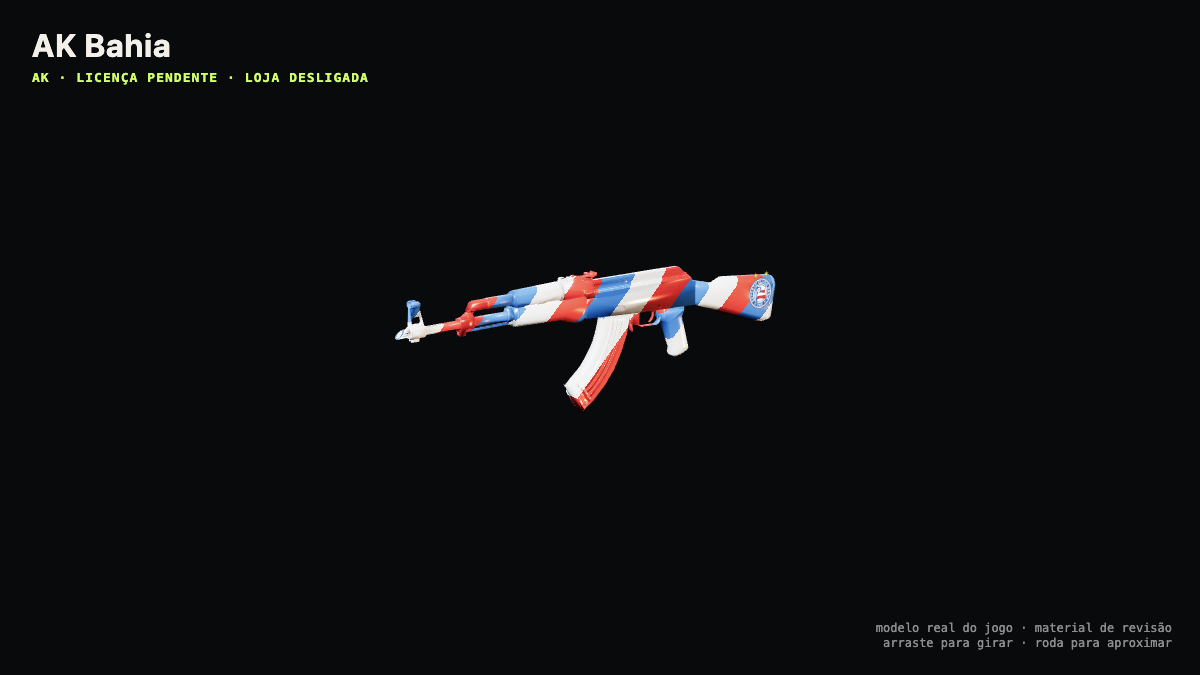
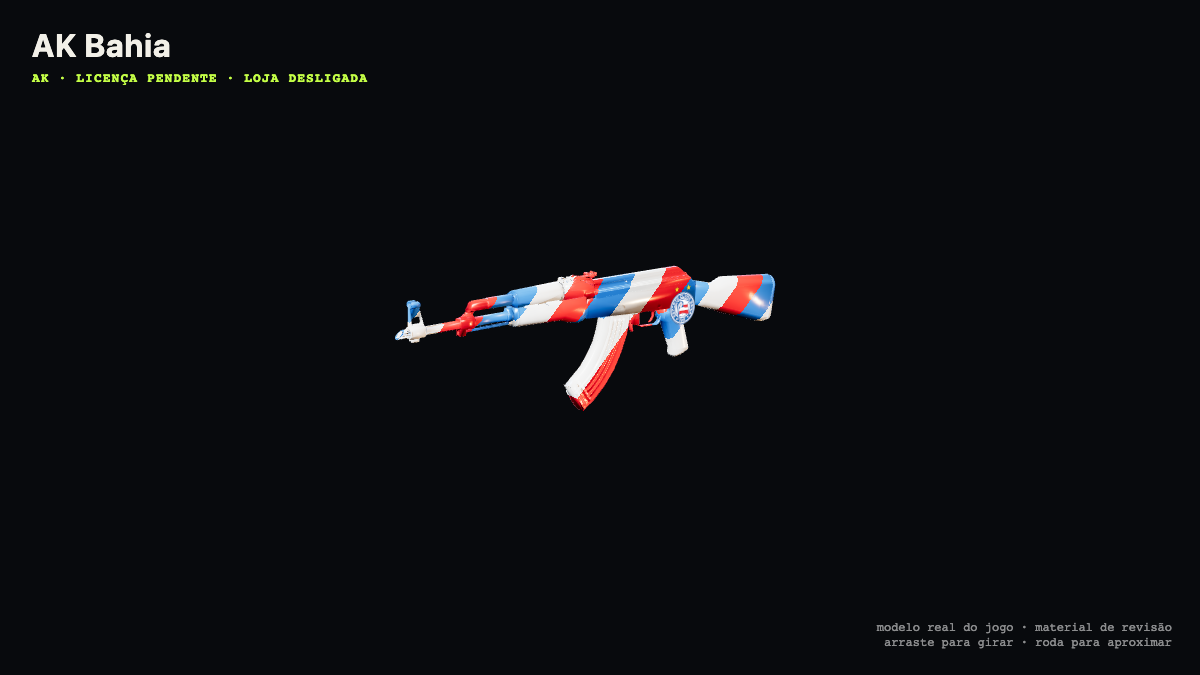
fix: keep club crests visible ingame
Use the complete Mint viewmodel during debug skin review and keep official marks on the receiver.

Commit-grande: atualiza o caminho de viewmodel e recaptura as evidências das dez variantes.

Agent: GLM

diff --git a/public/js/data/weapon-skin-definitions.js b/public/js/data/weapon-skin-definitions.js
@@ -34,7 +34,7 @@ export const WEAPON_SKINS = Object.freeze({
     rightsStatus: 'permission-needed',
     requiresLicenseForOfficialMarks: true,
     officialMarksIncluded: true,
-    markPlacement: 'stock',
+    markPlacement: 'receiver',
     markAsset: '/textures/weapon-skins/club-marks/flamengo.png',
     markSourceUrl: 'https://commons.wikimedia.org/wiki/File:Clube_de_Regatas_do_Flamengo_logo.svg',
   }),
@@ -51,7 +51,7 @@ export const WEAPON_SKINS = Object.freeze({
     rightsStatus: 'permission-needed',
     requiresLicenseForOfficialMarks: true,
     officialMarksIncluded: true,
-    markPlacement: 'stock',
+    markPlacement: 'receiver',
     markAsset: '/textures/weapon-skins/club-marks/corinthians.png',
     markSourceUrl: 'https://upload.wikimedia.org/wikipedia/pt/b/b4/Corinthians_simbolo.png',
   }),
@@ -68,7 +68,7 @@ export const WEAPON_SKINS = Object.freeze({
     rightsStatus: 'permission-needed',
     requiresLicenseForOfficialMarks: true,
     officialMarksIncluded: true,
-    markPlacement: 'stock',
+    markPlacement: 'receiver',
     markAsset: '/textures/weapon-skins/club-marks/cruzeiro.png',
     markSourceUrl: 'https://commons.wikimedia.org/wiki/File:Cruzeiro_Esporte_Clube_(logo).svg',
   }),
@@ -85,7 +85,7 @@ export const WEAPON_SKINS = Object.freeze({
     rightsStatus: 'permission-needed',
     requiresLicenseForOfficialMarks: true,
     officialMarksIncluded: true,
-    markPlacement: 'stock',
+    markPlacement: 'receiver',
     markAsset: '/textures/weapon-skins/club-marks/gremio.png',
     markSourceUrl: 'https://commons.wikimedia.org/wiki/File:Gremio_logo.svg',
   }),
@@ -102,7 +102,7 @@ export const WEAPON_SKINS = Object.freeze({
     rightsStatus: 'permission-needed',
     requiresLicenseForOfficialMarks: true,
     officialMarksIncluded: true,
-    markPlacement: 'stock',
+    markPlacement: 'receiver',
     markAsset: '/textures/weapon-skins/club-marks/bahia.png',
     markSourceUrl: 'https://commons.wikimedia.org/wiki/File:Esporte_Clube_Bahia_logo.svg',
   }),
@@ -119,7 +119,7 @@ export const WEAPON_SKINS = Object.freeze({
     rightsStatus: 'permission-needed',
     requiresLicenseForOfficialMarks: true,
     officialMarksIncluded: true,
-    markPlacement: 'stock',
+    markPlacement: 'receiver',
     markAsset: '/textures/weapon-skins/club-marks/palmeiras.png',
     markSourceUrl: 'https://commons.wikimedia.org/wiki/File:Palmeiras_logo.svg',
   }),
@@ -136,7 +136,7 @@ export const WEAPON_SKINS = Object.freeze({
     rightsStatus: 'permission-needed',
     requiresLicenseForOfficialMarks: true,
     officialMarksIncluded: true,
-    markPlacement: 'stock',
+    markPlacement: 'receiver',
     markAsset: '/textures/weapon-skins/club-marks/sao-paulo.png',
     markSourceUrl: 'https://commons.wikimedia.org/wiki/File:São_Paulo_Futebol_Clube_logo_(2022).svg',
   }),
@@ -153,7 +153,7 @@ export const WEAPON_SKINS = Object.freeze({
     rightsStatus: 'permission-needed',
     requiresLicenseForOfficialMarks: true,
     officialMarksIncluded: true,
-    markPlacement: 'stock',
+    markPlacement: 'receiver',
     markAsset: '/textures/weapon-skins/club-marks/santos.png',
     markSourceUrl: 'https://commons.wikimedia.org/wiki/File:Santos_logo.svg',
   }),

diff --git a/public/js/authoredvm.js b/public/js/authoredvm.js
@@ -72,8 +72,10 @@ async function pagoComRetry(asset, baixa, { tentativas = 3, tetoMs = 45000 } = {
 // ?vmfonte=goldsrc: viewmodel dos moldes CS 1.6 (CC0, FONTE.md) com a arma
 // Mint; ?cs16=1 é o atalho que liga todas as famílias + a fonte de uma vez.
 const _QS = typeof window !== 'undefined' ? new URLSearchParams(window.location.search) : null;
-// Fonte única: chave de lançamento tudo-ou-nada (vmlaunch.js) ou revisão `?vmauthored=1`.
-export const AUTHORED_VM_ENABLED = VM_RUNTIME.active;
+// A revisão de skin usa o modelo Mint integral: ele carrega a pintura e o brasão no receptor.
+// O viewmodel autorado tem outra topologia e esconderia justamente o brasão que está sob revisão.
+const WEAPON_SKIN_REVIEW = _QS?.get('debug') === '1' && !!_QS?.get('weaponskin');
+export const AUTHORED_VM_ENABLED = VM_RUNTIME.active && !WEAPON_SKIN_REVIEW;
 const CS16_TUDO = AUTHORED_VM_ENABLED && _QS?.get('cs16') === '1';
 // ?vmfonte=retarget (?rt=1): braços pagos sobre movimento CS 1.6 retargetado.
 // Evidência e custo da escolha: docs/reports/GOLDEN-AK-DECISION.md.

diff --git a/public/js/game.js b/public/js/game.js
@@ -1643,7 +1643,11 @@ export class Game {
     const fixVmMaterials = (obj) => obj.traverse((o) => {
       if (!o.isMesh || !o.material) return;
       if (!VM_MAT_LEGACY && temEnv) return;   // MAT1: mesmo GLB, mesmo material, nos 3 caminhos
+      const onBeforeCompile = o.material.onBeforeCompile;
+      const customProgramCacheKey = o.material.customProgramCacheKey;
       o.material = o.material.clone();
+      o.material.onBeforeCompile = onBeforeCompile;
+      o.material.customProgramCacheKey = customProgramCacheKey;
       if ('metalness' in o.material) o.material.metalness = Math.min(o.material.metalness, 0.55);
       if ('roughness' in o.material) o.material.roughness = Math.max(o.material.roughness, 0.45);
       o.material.envMapIntensity = 1.2;

diff --git a/public/js/weapon-skins.js b/public/js/weapon-skins.js
@@ -136,14 +136,14 @@ function attachClubMark(model, skinId) {
   });
   const right = new THREE.Mesh(geometry, material);
   right.name = `club-mark-${skinId}-right`;
-  right.position.set(0.041, 0.052, -0.32);
+  right.position.set(0.041, 0.052, -0.08);
   right.rotation.y = Math.PI / 2;
   right.renderOrder = 4;
   right.userData.officialMark = true;
   right.userData.rightsStatus = 'permission-needed';
   const left = new THREE.Mesh(geometry, material);
   left.name = `club-mark-${skinId}-left`;
-  left.position.set(-0.041, 0.052, -0.32);
+  left.position.set(-0.041, 0.052, -0.08);
   left.rotation.y = -Math.PI / 2;
   left.renderOrder = 4;
   left.userData.officialMark = true;
